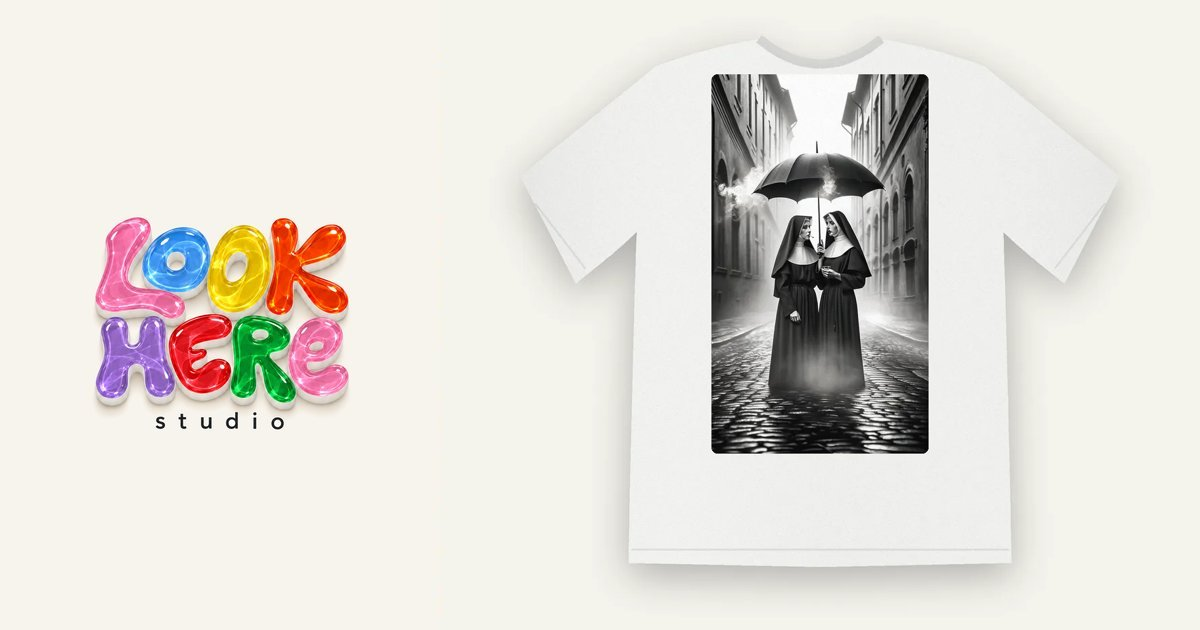
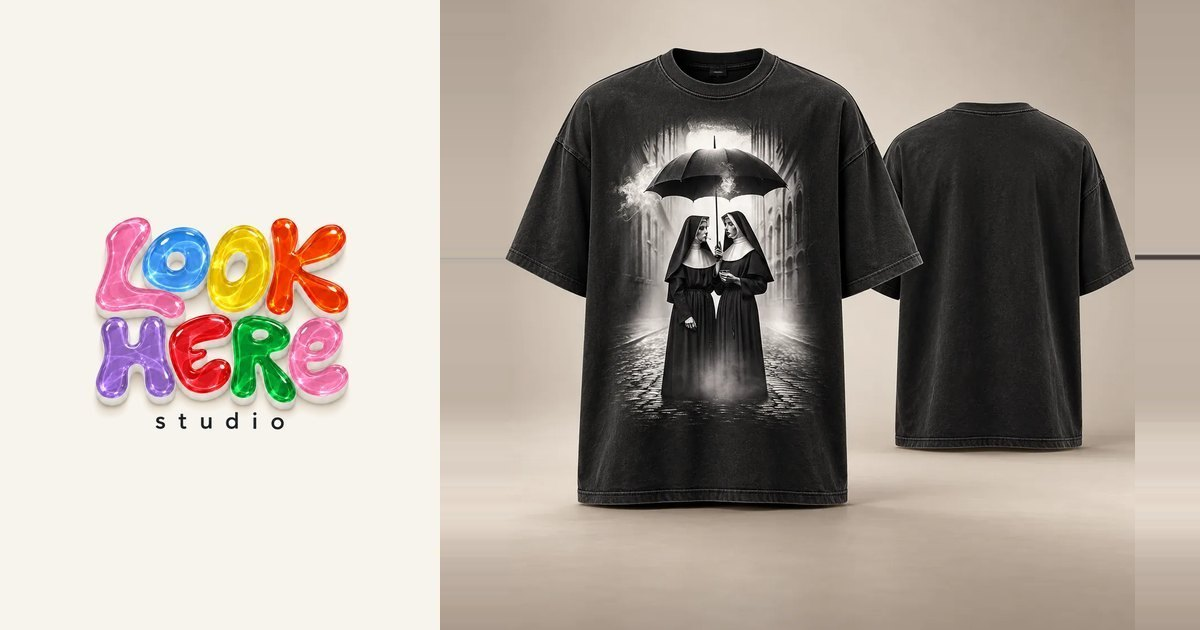
Off The Wall: owner's photographed mock-ups for 7 tees, add T19 Danse Macabre
Photos lead each gallery with a print close-up; colours/placement copy now
match the photos (front prints; nuns/reaper/skull on black). Tokyo Tower
retouched out of the crane photo. New OG cards; unused renders removed.

diff --git a/data/tees.ts b/data/tees.ts
@@ -5,7 +5,8 @@ import type { Product } from "@/lib/types";
 // Generated from ~/Downloads/look-here-studio-tees (designs.py placement plan +
 // mock-ups); edit copy here freely. Every tee: 100% cotton, 190–240 GSM,
 // regular (₹1,499) or oversized (₹1,799), XS–XXL, colour per design.
-// Mock-ups are visualisations (labelled on site) until real photos replace them.
+// Photographed mock-ups (owner-supplied, *-photo/-detail) lead where they exist;
+// the rest are studio renders (*-front/-back) until photos replace them.
 // ---------------------------------------------------------------------------
 
 export const TEE_PRICE = 1499;
@@ -90,10 +91,10 @@ export const tees: Product[] = [
     slug: "stay-weird",
     name: "Stay Weird",
     copy: "A grey cat, a red toadstool and a crescent moon, under a big 'Stay Weird' in storybook lettering. For people who'd rather be interesting than normal.",
-    why: "Text-led art wants to be read face-on, so it goes big on the front. The crescent moon is lifted onto the sleeve as a quiet wink for people who notice.",
-    placement: "Full front, sleeve",
-    colours: [{"id": "black", "label": "Black", "image": "/wearables/tee-stay-weird-black-front.webp"}],
-    images: ["/wearables/tee-stay-weird-black-front.webp", "/wearables/tee-stay-weird-art.webp"],
+    why: "Text-led art wants to be read face-on, so it goes big on the front of a black tee: the lettering across the chest, the cat and its toadstool right under it.",
+    placement: "Full front",
+    colours: [{"id": "black", "label": "Black", "image": "/wearables/tee-stay-weird-photo.webp"}],
+    images: ["/wearables/tee-stay-weird-photo.webp", "/wearables/tee-stay-weird-detail.webp", "/wearables/tee-stay-weird-art.webp"],
   }),
   tee({
     n: 2,
@@ -109,11 +110,11 @@ export const tees: Product[] = [
     n: 3,
     slug: "crane",
     name: "Night Crane",
-    copy: "A red-crowned crane sweeps across a night-time city skyline, wings wide over the water. Calm, graphic and very good from behind.",
-    why: "The crane's wingspan fills the shoulders on the back, flying away as you walk. A small crane on the left chest carries the story to the front.",
-    placement: "Left chest, full back",
-    colours: [{"id": "black", "label": "Black", "image": "/wearables/tee-crane-black-back.webp"}, {"id": "green", "label": "Dark green", "image": "/wearables/tee-crane-green-back.webp"}],
-    images: ["/wearables/tee-crane-black-back.webp", "/wearables/tee-crane-black-front.webp", "/wearables/tee-crane-green-back.webp", "/wearables/tee-crane-art.webp"],
+    copy: "A red-crowned crane sweeps across a night-time city skyline, wings wide over the water. Calm, graphic and big across the chest.",
+    why: "The crane's wingspan needs width, so it flies across the whole front, wings breaking out over the skyline. The back stays plain and lets the bird do the talking.",
+    placement: "Full front",
+    colours: [{"id": "black", "label": "Black", "image": "/wearables/tee-crane-photo.webp"}],
+    images: ["/wearables/tee-crane-photo.webp", "/wearables/tee-crane-detail.webp", "/wearables/tee-crane-art.webp"],
   }),
   tee({
     n: 4,
@@ -122,8 +123,8 @@ export const tees: Product[] = [
     copy: "A black horse in halftone, set against stripes of blue, yellow and pink, like a screen print pulled off an old poster.",
     why: "A halftone, screen-print style portrait is a classic front graphic: square, centred and big, like a vintage poster tee.",
     placement: "Full front",
-    colours: [{"id": "cream", "label": "Off-white", "image": "/wearables/tee-horse-cream-front.webp"}, {"id": "white", "label": "White", "image": "/wearables/tee-horse-white-front.webp"}],
-    images: ["/wearables/tee-horse-cream-front.webp", "/wearables/tee-horse-white-front.webp", "/wearables/tee-horse-art.webp"],
+    colours: [{"id": "cream", "label": "Off-white", "image": "/wearables/tee-horse-photo.webp"}],
+    images: ["/wearables/tee-horse-photo.webp", "/wearables/tee-horse-detail.webp", "/wearables/tee-horse-art.webp"],
   }),
   tee({
     n: 5,
@@ -140,10 +141,10 @@ export const tees: Product[] = [
     slug: "woman-cheetah",
     name: "Walking The Cat",
     copy: "A woman in a corset and baggy jeans walks her cheetah like it's a Tuesday. Painted in a glossy, retro illustration style.",
-    why: "On a cream tee the art's cream background disappears, so she walks straight across the shirt, set off-centre as if she's mid-stride. The cheetah's head peeks out at the back of the neck.",
-    placement: "Full front, back neck",
-    colours: [{"id": "cream", "label": "Off-white", "image": "/wearables/tee-woman-cheetah-cream-front.webp"}],
-    images: ["/wearables/tee-woman-cheetah-cream-front.webp", "/wearables/tee-woman-cheetah-cream-back.webp", "/wearables/tee-woman-cheetah-art.webp"],
+    why: "On an off-white tee the art's cream background disappears, so she walks straight across the front, cheetah on a lead, as if she's mid-stride.",
+    placement: "Full front",
+    colours: [{"id": "cream", "label": "Off-white", "image": "/wearables/tee-woman-cheetah-photo.webp"}],
+    images: ["/wearables/tee-woman-cheetah-photo.webp", "/wearables/tee-woman-cheetah-detail.webp", "/wearables/tee-woman-cheetah-art.webp"],
   }),
   tee({
     n: 7,
@@ -170,10 +171,10 @@ export const tees: Product[] = [
     slug: "skull-roses",
     name: "Memento Mori",
     copy: "A skull crowned by a coiled snake, with red roses in an ivy-covered stone arch. A memento mori for people who like a bit of drama.",
-    why: "Gothic band-tee logic: a small skull crest on the chest, and the full skull, roses and serpent shrine taking the back.",
-    placement: "Left chest, full back",
-    colours: [{"id": "black", "label": "Black", "image": "/wearables/tee-skull-roses-black-back.webp"}],
-    images: ["/wearables/tee-skull-roses-black-back.webp", "/wearables/tee-skull-roses-black-front.webp", "/wearables/tee-skull-roses-art.webp"],
+    why: "Gothic band-tee logic: the full skull, roses and stone arch go big on the front of a black tee, like the cover of a record you'd play loud.",
+    placement: "Full front",
+    colours: [{"id": "black", "label": "Black", "image": "/wearables/tee-skull-roses-photo.webp"}],
+    images: ["/wearables/tee-skull-roses-photo.webp", "/wearables/tee-skull-roses-detail.webp", "/wearables/tee-skull-roses-art.webp"],
   }),
   tee({
     n: 10,
@@ -190,20 +191,20 @@ export const tees: Product[] = [
     slug: "reaper-stay-positive",
     name: "Stay Positive",
     copy: "The Grim Reaper holds up a scroll that says 'stay positive'. Dark humour, delivered with excellent penmanship.",
-    why: "The joke lands twice. A cheerful 'stay positive' on the chest, then the reveal of who's saying it on the back.",
-    placement: "Left chest, full back",
-    colours: [{"id": "white", "label": "White", "image": "/wearables/tee-reaper-stay-positive-white-back.webp"}, {"id": "cream", "label": "Off-white", "image": "/wearables/tee-reaper-stay-positive-cream-back.webp"}],
-    images: ["/wearables/tee-reaper-stay-positive-white-back.webp", "/wearables/tee-reaper-stay-positive-white-front.webp", "/wearables/tee-reaper-stay-positive-cream-back.webp", "/wearables/tee-reaper-stay-positive-art.webp"],
+    why: "Dark humour works best face-on, so the Reaper meets people head-on with his cheerful little sign, big on the front of a black tee.",
+    placement: "Full front",
+    colours: [{"id": "black", "label": "Black", "image": "/wearables/tee-reaper-stay-positive-photo.webp"}],
+    images: ["/wearables/tee-reaper-stay-positive-photo.webp", "/wearables/tee-reaper-stay-positive-detail.webp", "/wearables/tee-reaper-stay-positive-art.webp"],
   }),
   tee({
     n: 12,
     slug: "nuns-umbrella",
     name: "Sisters",
     copy: "Two nuns share an umbrella and a cigarette on a misty cobbled street, in black and white. A film still that tells its own story.",
-    why: "The tall, cinematic black-and-white photo reads like a film still, so it runs down the back as a vertical panel. The umbrella alone is the teaser on the front.",
-    placement: "Left chest, full back",
-    colours: [{"id": "white", "label": "White", "image": "/wearables/tee-nuns-umbrella-white-back.webp"}],
-    images: ["/wearables/tee-nuns-umbrella-white-back.webp", "/wearables/tee-nuns-umbrella-white-front.webp", "/wearables/tee-nuns-umbrella-art.webp"],
+    why: "The tall, cinematic black-and-white photo reads like a film still, so it runs down the front of a black tee, where the grey mist melts into the fabric.",
+    placement: "Full front",
+    colours: [{"id": "black", "label": "Black", "image": "/wearables/tee-nuns-umbrella-photo.webp"}],
+    images: ["/wearables/tee-nuns-umbrella-photo.webp", "/wearables/tee-nuns-umbrella-detail.webp", "/wearables/tee-nuns-umbrella-art.webp"],
   }),
   tee({
     n: 13,
@@ -264,5 +265,15 @@ export const tees: Product[] = [
     placement: "Full back",
     colours: [{"id": "white", "label": "White", "image": "/wearables/tee-more-room-white-back.webp"}, {"id": "cream", "label": "Off-white", "image": "/wearables/tee-more-room-cream-back.webp"}],
     images: ["/wearables/tee-more-room-white-back.webp", "/wearables/tee-more-room-cream-back.webp", "/wearables/tee-more-room-art.webp"],
+  }),
+  tee({
+    n: 19,
+    slug: "dancing-skeletons",
+    name: "Danse Macabre",
+    copy: "Two skeletons dance ballet on a block of sunshine yellow: pointe shoes, perfect posture, no muscles required.",
+    why: "The yellow block is a stage, so it goes big and centred on the front, where the dancers can perform to the whole room.",
+    placement: "Full front",
+    colours: [{"id": "cream", "label": "Off-white", "image": "/wearables/tee-dancing-skeletons-photo.webp"}],
+    images: ["/wearables/tee-dancing-skeletons-photo.webp", "/wearables/tee-dancing-skeletons-detail.webp"],
   }),
 ];

diff --git a/data/images.ts b/data/images.ts
@@ -67,8 +67,17 @@ export const IMAGES: Record<string, ImageMeta> = {
 // Off The Wall tee images are generated from their filenames:
 //   /wearables/tee-<design>-<colour>-<front|back>.webp  → mock-up (a visualisation)
 //   /wearables/tee-<design>-art.webp                     → the flat artwork
+//   /wearables/tee-<design>-<photo|detail>.webp          → photographed mock-up / print close-up
 const TEE_COLOUR: Record<string, string> = { black: "black", white: "white", cream: "off-white", green: "dark green" };
 function teeMeta(src: string): ImageMeta | undefined {
+  const ph = src.match(/^\/wearables\/tee-(.+?)-(photo|detail)\.webp$/);
+  if (ph) {
+    const t = tees.find((x) => x.slug === `tee-${ph[1]}`);
+    const name = t?.name ?? "Off The Wall tee";
+    return ph[2] === "photo"
+      ? { alt: `${name}: ${t?.colour.toLowerCase() ?? ""} oversized T-shirt, front and back (print on the front)` }
+      : { alt: `${name}: close-up of the print on the front of the T-shirt` };
+  }
   const m = src.match(/^\/wearables\/tee-(.+?)-(?:(black|white|cream|green)-(front|back)|art)\.webp$/);
   if (!m) return undefined;
   const p = tees.find((t) => t.slug === `tee-${m[1]}`);
